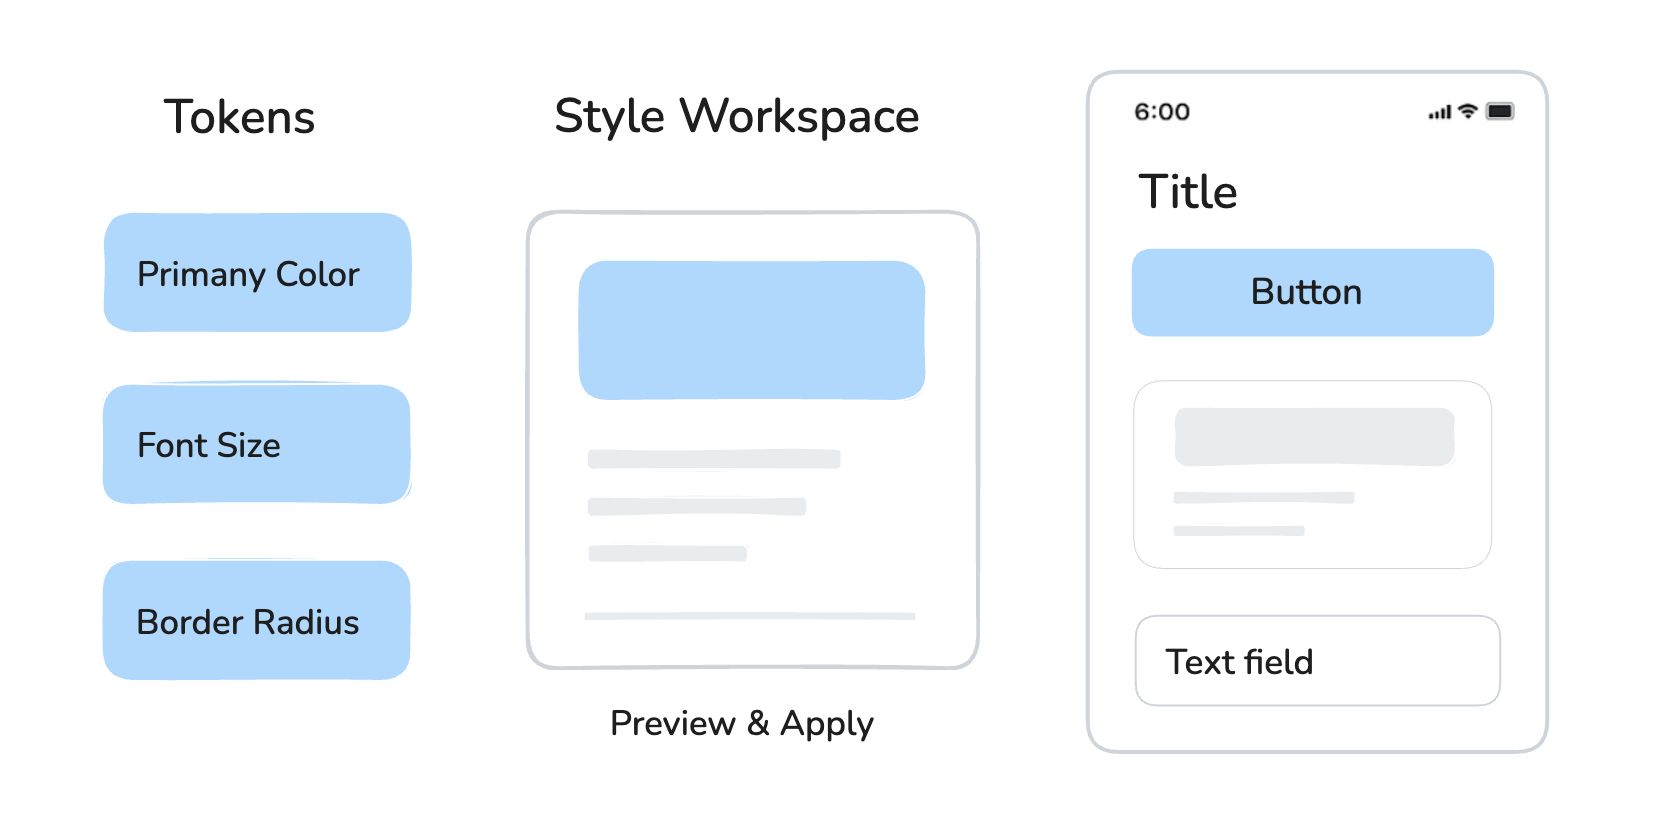
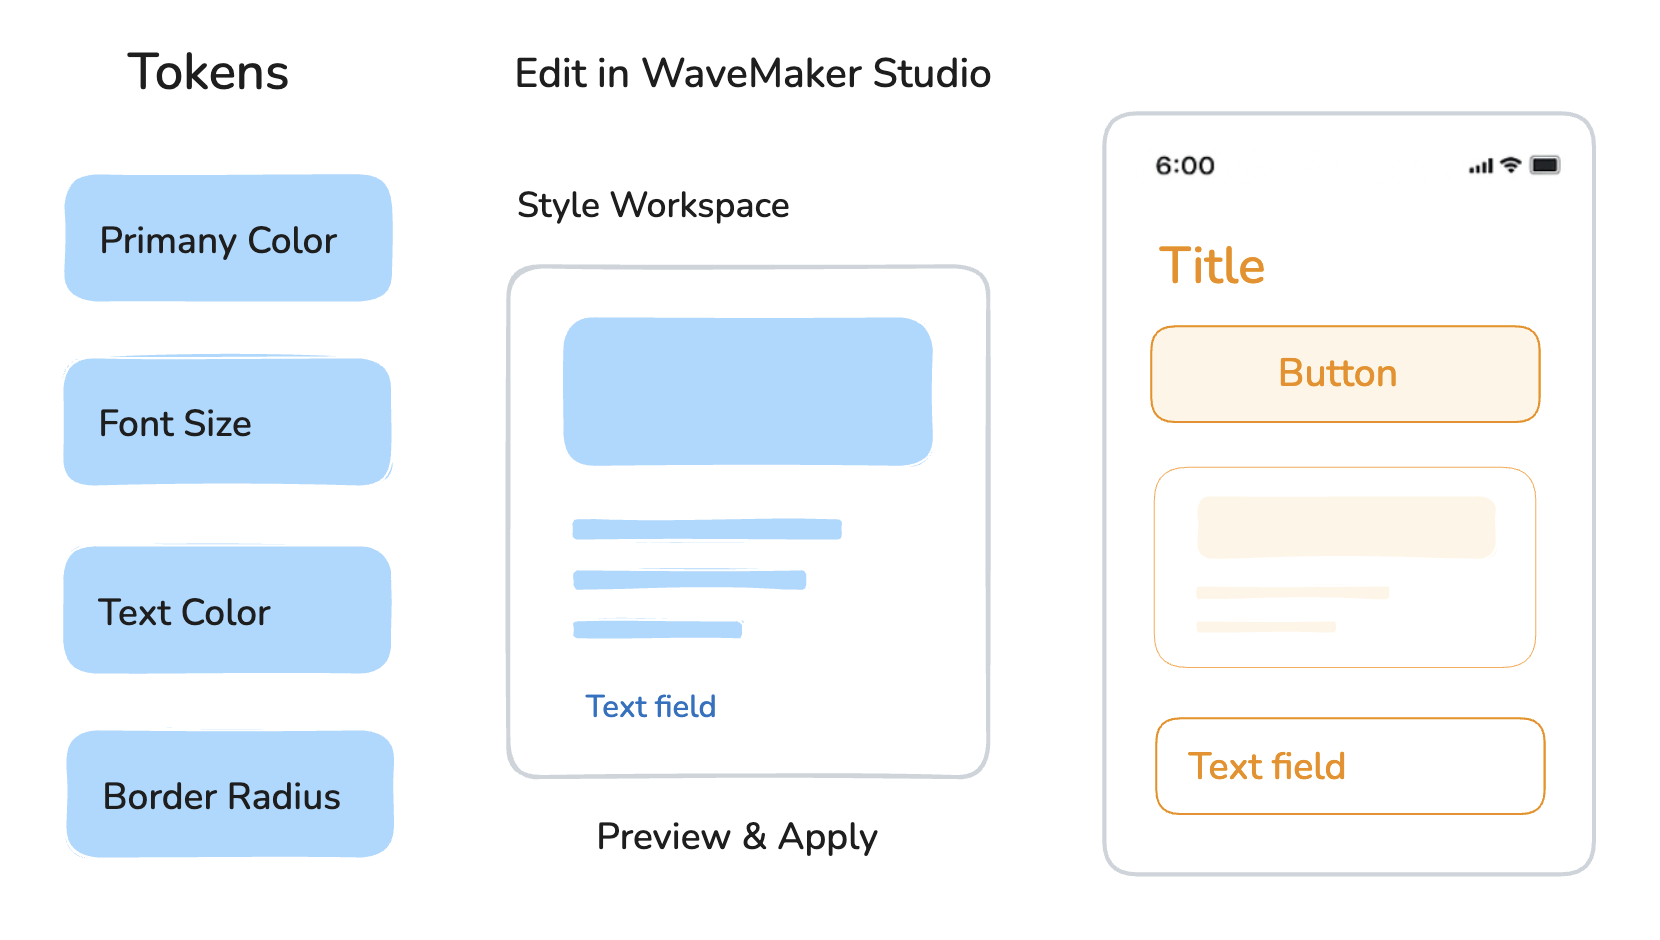
add design to code

diff --git a/learn/design-system/design-to-code.md b/learn/design-system/design-to-code.md
@@ -1,0 +1,35 @@
+---
+title: "Design to Code"
+sidebar_label: "Design to Code"
+---
+
+WaveMaker brings the **Design System** concept into a **practical, visual environment** that connects design and development seamlessly.  
+Here’s how the flow works end-to-end:
+
+![design to code](/learn/assets/design-to-code-architecture.png)
+
+### 1. Design Phase: Figma  
+Designers define the base **design tokens** — colors, typography, spacing, and other style rules — directly in Figma.  
+These tokens represent the visual foundation of your brand or app theme.
+
+### 2. Automation: AutoCode Plugin  
+The **AutoCode Plugin** acts as the bridge between Figma and WaveMaker.  
+When you use the plugin, it:
+- Extracts design tokens and component styles from Figma.  
+- Converts them into **WaveMaker-readable JSON structures**.  
+- Pushes those token definitions into **WaveMaker Studio** via the **“Edit in WaveMaker”** action.  
+
+This ensures that:
+- The design file from Figma is automatically translated into an **editable design system** inside WaveMaker.  
+- The corresponding **JSON files** are generated and mapped correctly, so tokens can be modified within the **Style Workspace**.
+
+### 3. Styling: WaveMaker Style Workspace  
+Once imported, the **Style Workspace** becomes the central hub to manage and customize those tokens visually.  
+Developers can:
+- Edit colors, typography, and spacing in real time.  
+- Preview all design updates instantly before applying them globally.  
+- Work on top of the synchronized JSON tokens from Figma, ensuring design–code consistency.
+
+### 4. Application: Live App UI  
+After the updates are confirmed, the token changes automatically cascade across all linked components in the app.  
+Every color, font, and spacing update made in Style Workspace is reflected live in the **App UI** — no manual CSS edits or repetitive style updates required.

diff --git a/learn/design-system/overview.md b/learn/design-system/overview.md
@@ -14,10 +14,10 @@ Think of it like **update once** → **preview** → **applied everywhere**.
 <img src={DesignSystemArchitecture} style={{width:"60%"}} />
 
 
-Imagine your app’s primary brand color is green. You decide to switch it to blue:
+Imagine your app’s primary brand color is blue. You decide to switch it to orange:
 
 1. Update the primary color token in [Style Workspace](/learn/design-system/working-with-style-workspace).
-2. Instantly, every button, card header, and link using that token changes to blue in the preview.
+2. Instantly, every button, card header, and link using that token changes to orange in the preview.
 3. Once you confirm, the update is applied across the app. No need to manually edit each component.
 
 ### Why WaveMaker uses Them
@@ -77,7 +77,7 @@ Here’s how it fits together:
 
 1. **Design Phase – Figma**: Designers define the base tokens (colors, fonts, spacing).
 
-2. **Automation – AutoCode Plugin**: The plugin extracts tokens from Figma and converts them into JSON format.
+2. **Automation – AutoCode Plugin**: The plugin extracts tokens from Figma, converts them into JSON format, and takes you directly to **Edit in WaveMaker Studio** for further styling and editing.
 
 3. **Styling – WaveMaker Style Workspace**: Developers import and manage these tokens visually. Changes can be previewed live before applying globally.
 
